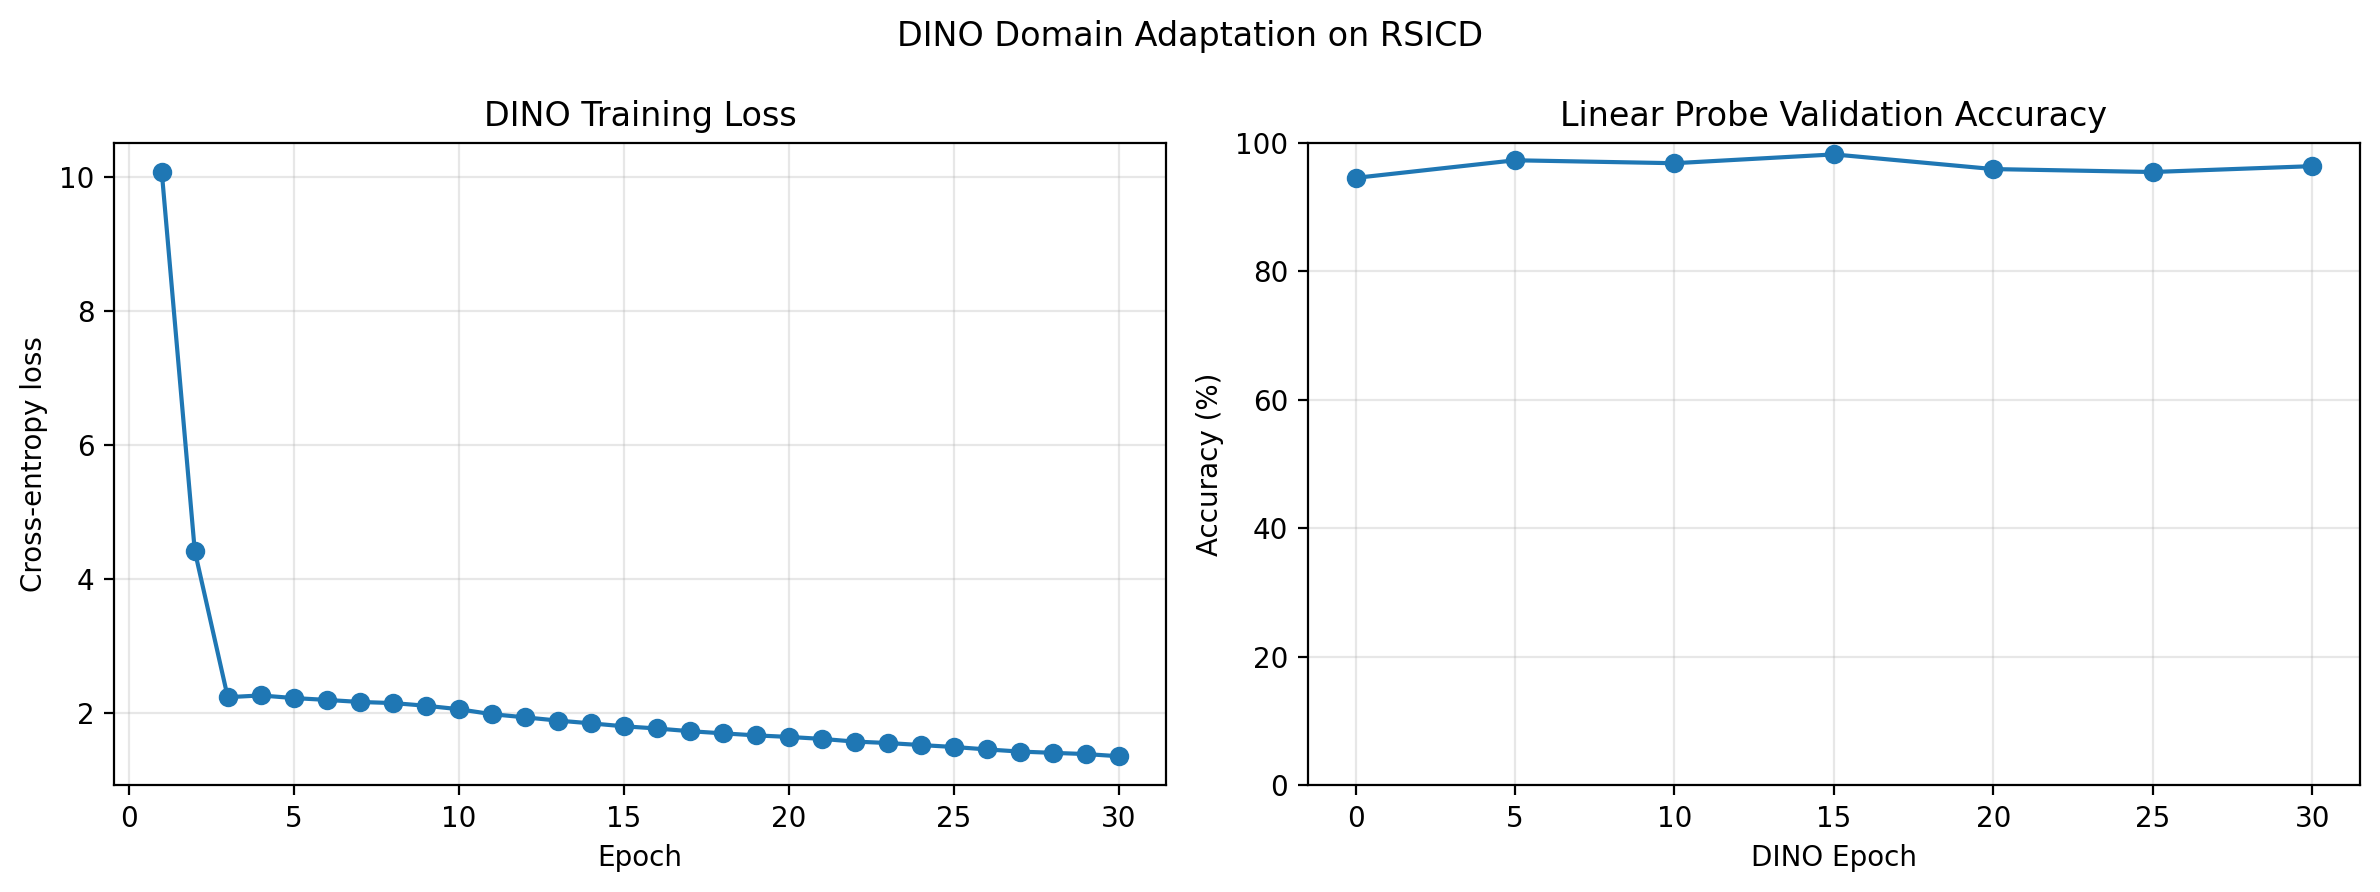
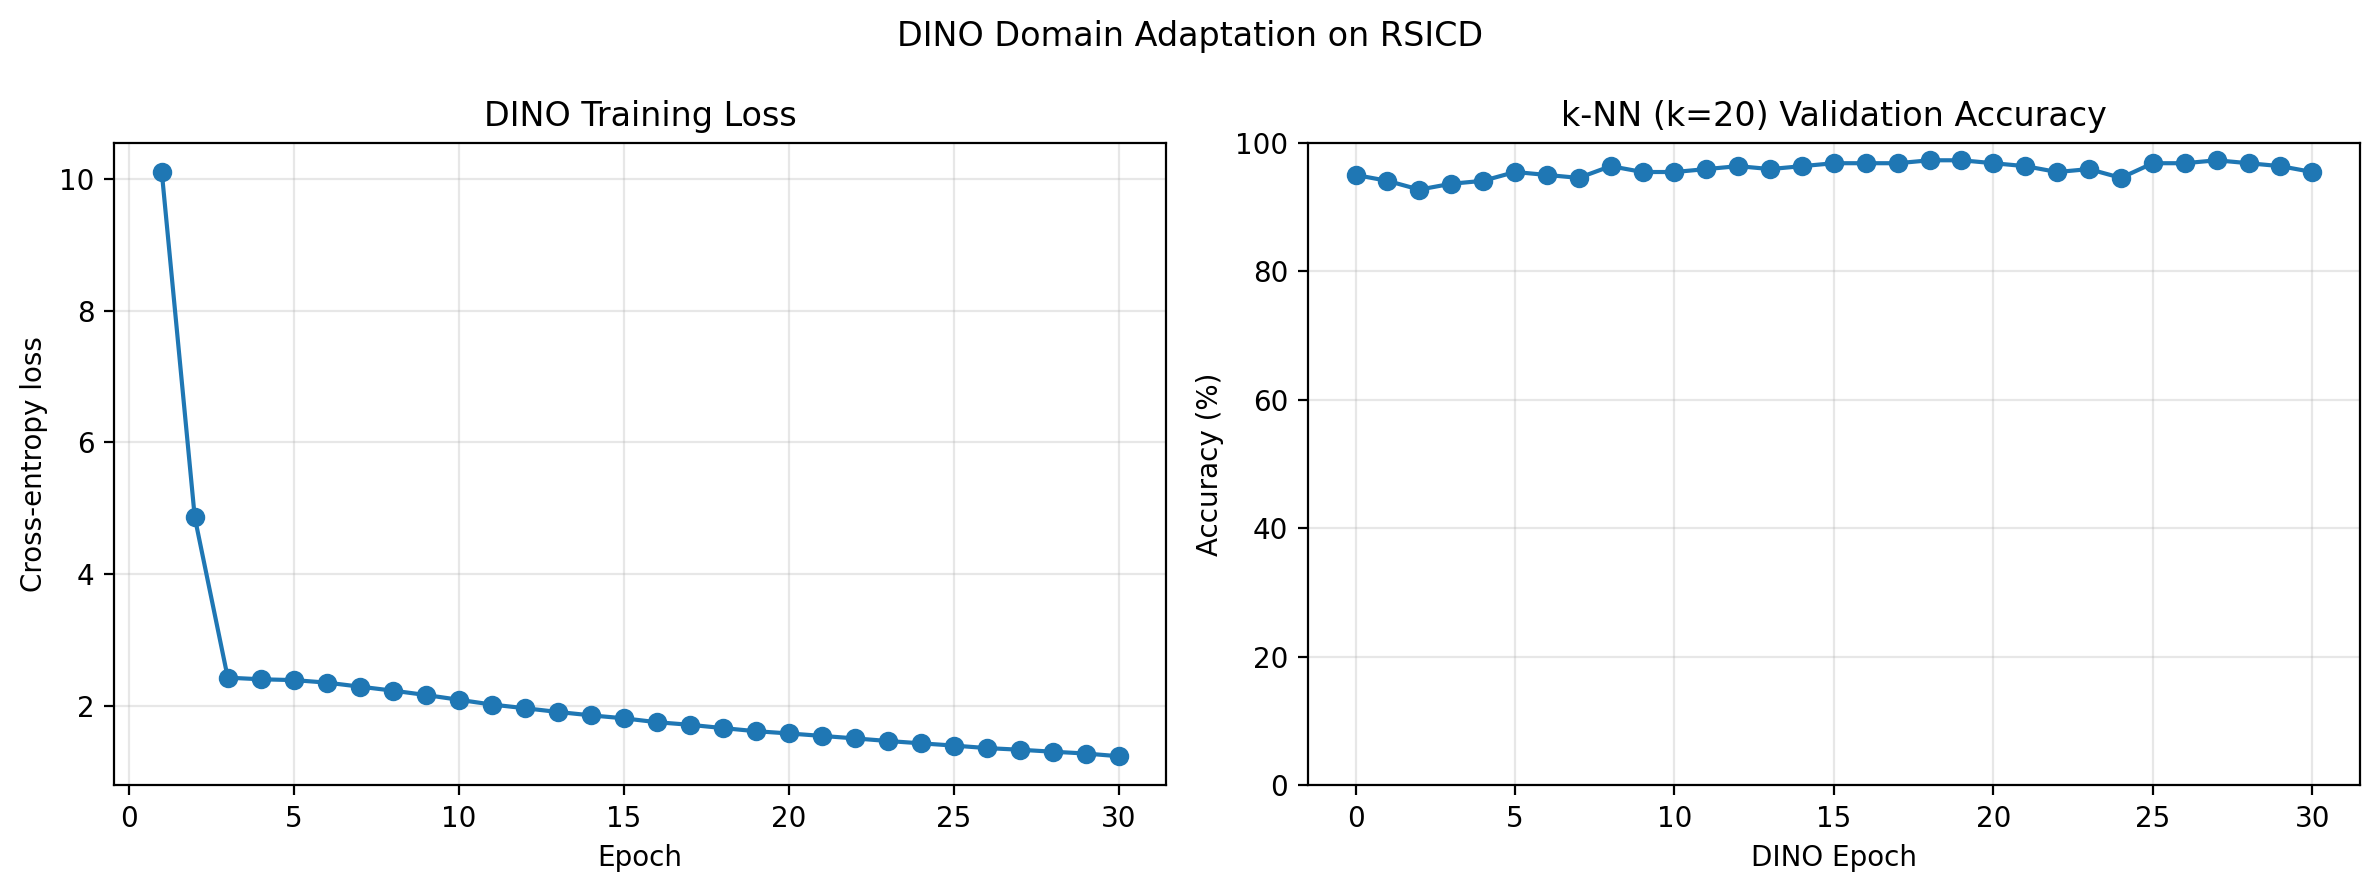
Updated README with knn results

diff --git a/open-clip/dino/main_dino.py b/open-clip/dino/main_dino.py
@@ -508,8 +508,8 @@ def main():
         model, probe_loader, device, dino_config, dataset_config.json_path
     )
 
-    probe_frequency = 5
-    checkpoint_frequency = 5
+    probe_frequency = 1
+    checkpoint_frequency = 1
 
     probe_history.append({
         "epoch": 0,

diff --git a/open-clip/dino/README.md b/open-clip/dino/README.md
@@ -138,44 +138,40 @@ We also use separate learning rates for the pretrained visual encoder and the ne
 
 
 ## Run training yourself
-`python open-clip/dino/main_dino.py`
+`python open-clip/dino/main_dino.py --epochs 30`
 
 The monitored accuracies are written to `results/dino/history.json` (key `knn`, or `linear_probe` for the earlier protocol).
 
 ## Results
-The numbers in this section and in the test evaluation below were obtained with the earlier linear-probe protocol. They have not been recomputed with k-NN yet.
-
-Training loss, and linear probe evaluated on validation set:
+Training loss, and k-nn (k=20) evaluated on validation set:
 
 ![Training results](training_history.png).
 
-| Metric | Original CLIP | DINO (Epoch 15) |
+| Metric | Original CLIP | DINO (Epoch 18) |
 |---|---:|---:|
-| Correct predictions | 207 / 219 | **215 / 219** |
-| Accuracy | 94.52% | **98.17%** |
+| Correct predictions | 208 / 219 | **213 / 219** |
+| Accuracy | 94.98% | **97.26%** |
 
 
 ## Final Test Set Evaluation
 
-After selecting the best DINO checkpoint (epoch 15), we evaluate the adapted visual encoder on the held-out RSICD test set.
+After training, select the best checkpoint with: `python open-clip/dino/select_checkpoint.py --checkpoints results/dino/checkpoint_epoch_*.pth`. Then, evaluate with `python open-clip/dino/evaluate_test.py --checkpoint results/dino.checkpoint_epoch_<BEST_CHECKPOINT>.pth --method both`
 
-1. Freeze the visual encoder and extract 512-dimensional image embeddings.
-2. Train a logistic regression classifier on all 1,094 labeled validation images.
-3. Evaluate classification performance on the 1,093 held-out test images.
+After selecting the best DINO checkpoint (epoch 18), we evaluate the adapted visual encoder on the held-out RSICD test set.
 
 ### Results
 
 | Metric | Original CLIP | DINO-adapted CLIP (Epoch 15) |
 |---|---:|---:|
-| Correct predictions | 1014 / 1093 | **1023 / 1093** |
-| Accuracy | 92.77% | **93.60%** |
-| Macro-F1 | 0.9209 | **0.9380** |
+| Correct predictions | 982 / 1093 | **1007 / 1093** |
+| Accuracy | 89.84% | **92.13%** |
+| Macro-F1 | 0.8954 | **0.9263** |
+
+
 
 ### Discussion
 
-DINO domain adaptation improves test accuracy from **92.77% to 93.60%**. Macro-F1 also improves from **0.9209 to 0.9380**, suggesting improvements in classification performance across the different remote sensing classes.
-
-The improvement on the held-out test set (+0.82 percentage points) is smaller than the improvement observed during validation (+3.65 percentage points).
+DINO domain adaptation improves test accuracy from **89.84% to 92.13%%**, i.e. 2.29 percentage points, and in absolute terms, 982/1093 vs 1007/1093. Macro-F1 also improves from **0.0.8954 to 0.0.9263**, suggesting improvements in classification performance across the different remote sensing classes.
 
 #### Reproducing the Evaluation
 
